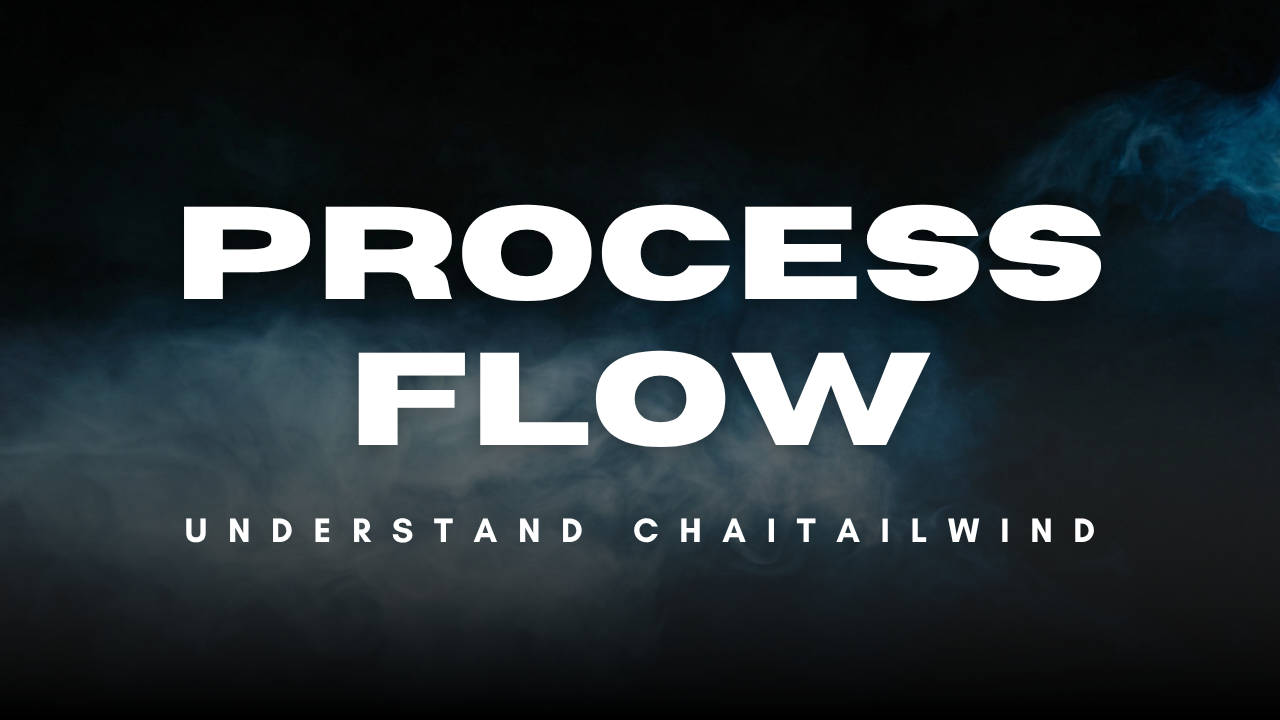
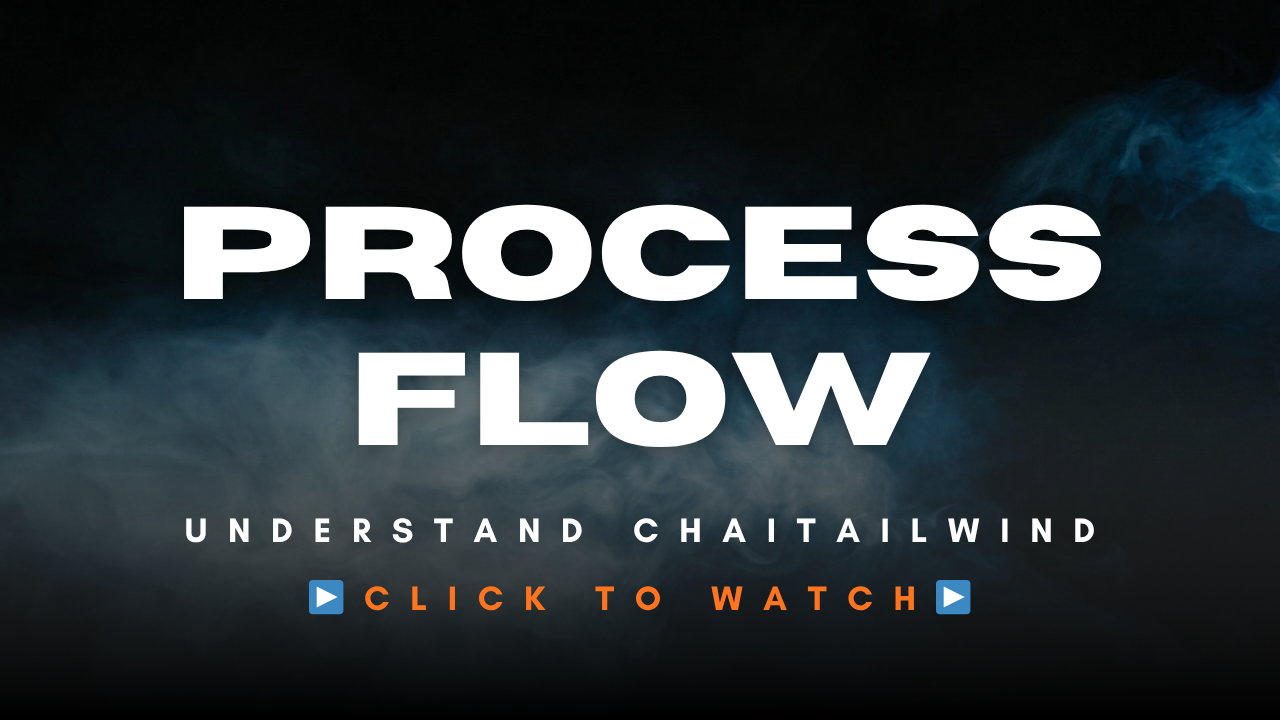
updated video using another trick

Changed region(s): [[0.4688, 0.7944, 0.7812, 0.8556], [0.2188, 0.7944, 0.4375, 0.8556]]

diff --git a/README.md b/README.md
@@ -3,7 +3,7 @@
 **ChaiTailwind** is a lightweight, utility-first CSS engine built entirely in JavaScript. It allows for **runtime styling** without a build step—just include the script, use the classes, and let the engine handle the rest.
 
 ## 🎥 Project Process & Demo
-<video src="https://github.com/pawankushwah/chaiTailwind/blob/aea1f8e68dee62d4c62466928befa6446065df85/process-flow.mp4" controls></video>
+[![Process Flow Video](https://raw.githubusercontent.com/pawankushwah/chaiTailwind/e402aa226305eea6a34d1f97262f3ed8b579379d/thumbnail.png)](https://github.com/pawankushwah/chaiTailwind/blob/aea1f8e68dee62d4c62466928befa6446065df85/process-flow.mp4)
 
 ## 🚀 Features
 
